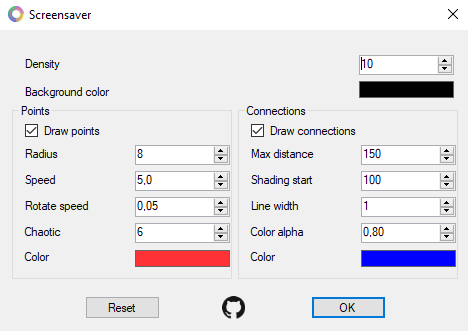
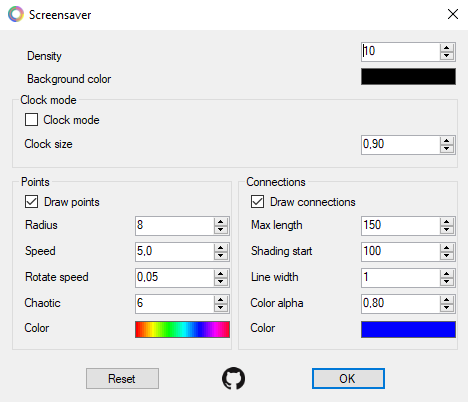
docs

diff --git a/README.md b/README.md
@@ -3,5 +3,8 @@
 ![](./docs/screenrecord.gif)
 ![](./docs/screenshot1.png)
 ![](./docs/screenshot2.png)
+## Clock mode:
+![](./docs/screenshot5.png)
+## Settings menu:
 ![](./docs/screenshot3.png)
 ![](./docs/screenshot4.png)
